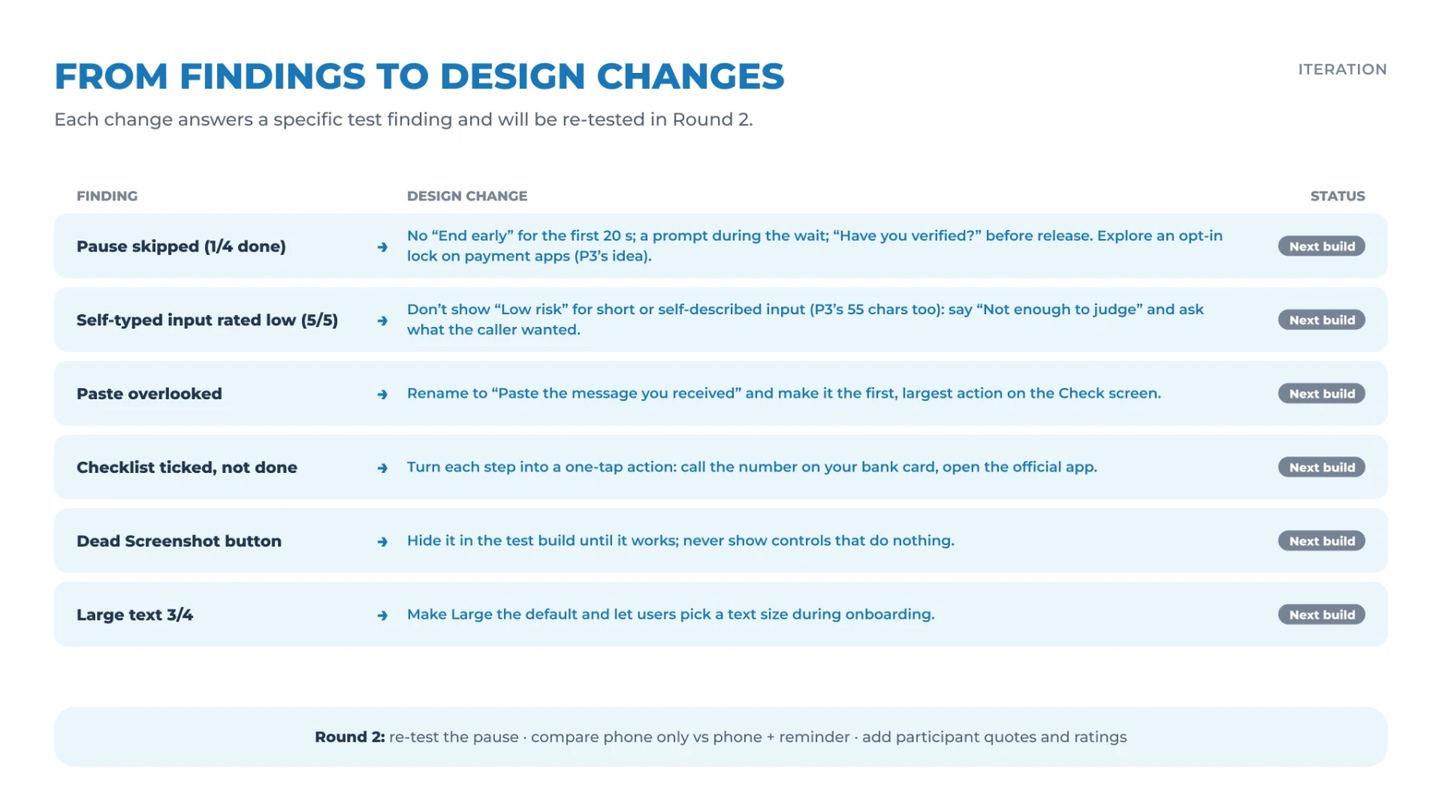
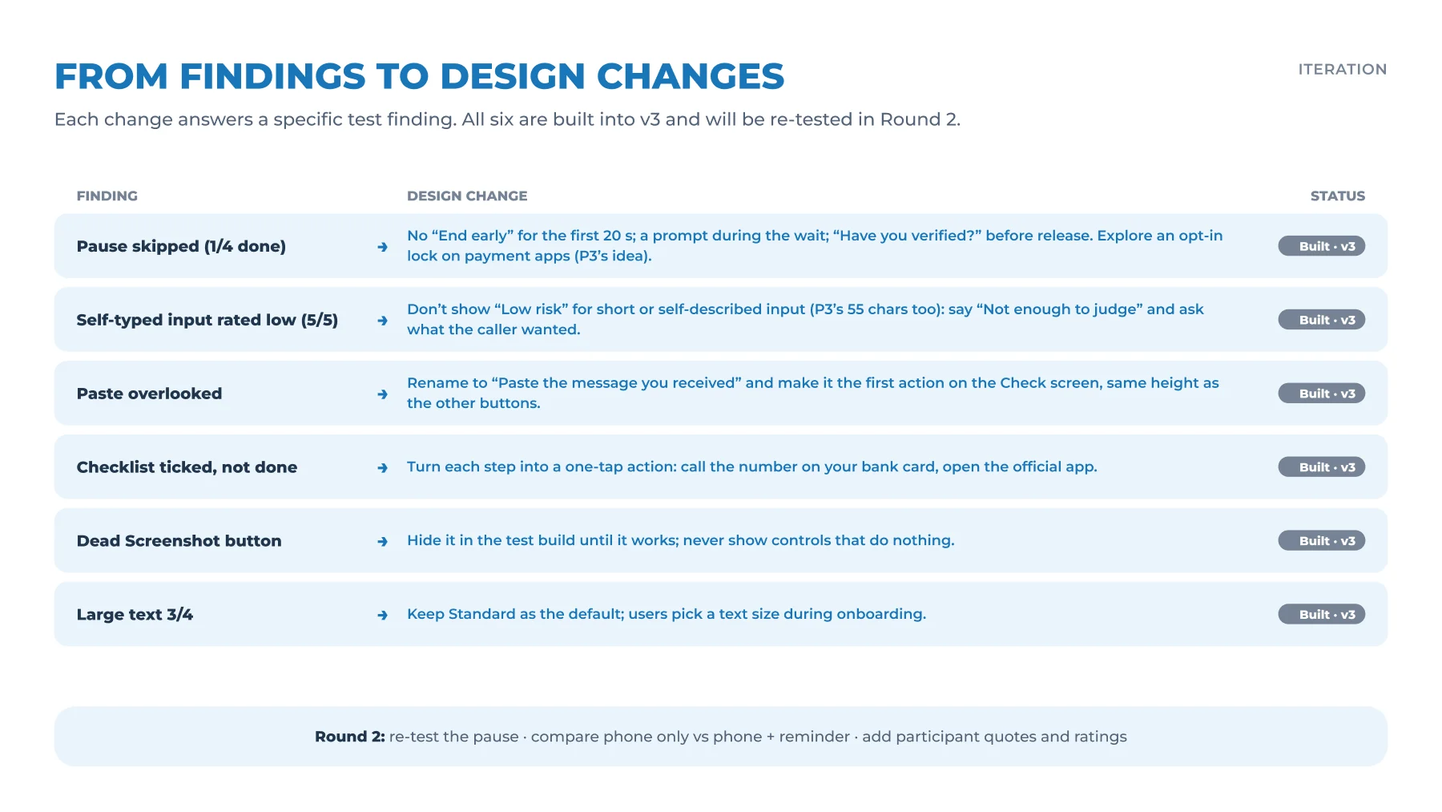
WiseHalo case study: findings→changes figure says Standard text stays the default; all six changes marked built in v3

diff --git a/works/wisehalo.html b/works/wisehalo.html
@@ -38,7 +38,7 @@ try{if(!sessionStorage.getItem('wz-loaded')&&!matchMedia('(prefers-reduced-motio
 <main class="project">
   <section class="meta"><div class="m-row"><span><span class="l-zh" lang="zh-Hans-CN">项目类型</span><span class="l-en" lang="en">Project type</span></span><span class="span2"><span class="l-zh" lang="zh-Hans-CN">AI + IOT 硕士毕业设计项目</span><span class="l-en" lang="en">AI + IoT MA thesis project</span></span></div><div class="m-row"><span><span class="l-zh" lang="zh-Hans-CN">项目名称</span><span class="l-en" lang="en">Project name</span></span><span class="span2"><span class="l-zh" lang="zh-Hans-CN">WiseHalo｜AI 防诈骗风险提示系统</span><span class="l-en" lang="en">WiseHalo — Making Hidden Scam Systems Visible</span></span></div><div class="m-row"><span><span class="l-zh" lang="zh-Hans-CN">分类</span><span class="l-en" lang="en">Category</span></span><span class="span2"><span class="tag">[<span class="l-zh" lang="zh-Hans-CN">AI</span><span class="l-en" lang="en">AI</span>]</span><span class="tag">[<span class="l-zh" lang="zh-Hans-CN">交互设计</span><span class="l-en" lang="en">Interaction design</span>]</span><span class="tag">[<span class="l-zh" lang="zh-Hans-CN">IOT</span><span class="l-en" lang="en">IoT</span>]</span><span class="tag">[<span class="l-zh" lang="zh-Hans-CN">适老化</span><span class="l-en" lang="en">Age-inclusive</span>]</span></span></div><div class="m-row"><span><span class="l-zh" lang="zh-Hans-CN">时间</span><span class="l-en" lang="en">Date</span></span><span class="span2">11.2026</span></div></section>
   <div class="p-grid">
-    <div class="p-main"><figure class="fig"><img src="../images/wisehalo/00-hero.webp?v=1794632484" width="1800" height="1012" alt=""></figure><div class="sec-head tldr"><span>00</span><span><span class="l-zh" lang="zh-Hans-CN">概要</span><span class="l-en" lang="en">Overview</span></span><span class="sec-text"><span class="l-zh" lang="zh-Hans-CN"><b>问题</b>：50–65 岁的人在诈骗里最缺的，不是更多警告，而是关键时刻有人解释“为什么可疑”，并帮他们停下来。<br><b>洞察</b>：用户想要提醒和解释；但真正止损的案例，都靠暂停和第三方核实。<br><b>方案</b>：AI 解释风险的 iOS App + 桌上提醒器——风险越高反馈越强，高风险时红灯一直亮，直到用户暂停或核实。<br><b>我的角色</b>：独立完成研究、交互与界面、iOS 原型和 ESP32 硬件。<br>20 个公开案例 · 32 份问卷 · 4 位长辈测试 · 3 级风险反馈 · <a class="u" href="#demo">直接试玩 ↓</a></span><span class="l-en" lang="en"><b>Problem</b>: people aged 50–65 don’t need more warnings – they need someone to explain why something is suspicious, and help them stop at the critical moment.<br><b>Insight</b>: users asked for alerts and explanations, yet every stopped case relied on a pause and a third party.<br><b>Design</b>: an iOS app where AI explains the risk, plus a desk reminder – stronger risk, stronger response; on high risk the red light stays on until the user pauses or verifies.<br><b>My role</b>: solo – research, interaction &amp; UI, iOS prototype and ESP32 hardware.<br>20 public cases · 32 surveys · 4 user tests · 3 risk levels · <a class="u" href="#demo">Try the demo ↓</a></span></span></div><div class="sec-head"><span>01</span><span><span class="l-zh" lang="zh-Hans-CN">问题：诈骗是一个系统</span><span class="l-en" lang="en">Problem: scams are systems</span></span><span class="sec-text"><span class="l-zh" lang="zh-Hans-CN">公开案例显示，诈骗从社交平台和日常任务开始接触用户，用虚假身份建立信任，再用紧迫感和小额回报推动用户做出高风险操作。大多数人只看到表面信息，看不到背后的运作方式，也就很难在中途停下来。</span><span class="l-en" lang="en">Public cases show scams reach people through everyday channels, build trust with fake identities, then use urgency and small rewards to push risky actions. Most people only see the surface message, not the system behind it — so it is hard to stop midway.</span></span></div><div class="figs figs-stack"><figure class="fig zoom"><img class="l-zh" src="../images/wisehalo/01-zh.webp?v=1794736027" width="1800" height="1013" alt="" loading="lazy" decoding="async"><img class="l-en" src="../images/wisehalo/01.webp?v=1794632484" width="1800" height="1012" alt="" loading="lazy" decoding="async"></figure></div><div class="sec-head"><span>02</span><span><span class="l-zh" lang="zh-Hans-CN">研究：20 个公开案例 + 32 份问卷</span><span class="l-en" lang="en">Research: 20 public cases + 32 surveys</span></span><span class="sec-text"><span class="l-zh" lang="zh-Hans-CN">我分析了 20 个中国 50–65 岁受害者的公开案例，并对 32 人做了线上问卷（其中 50 岁以上 15 人）。大多数人在可疑互动中会提前退出，但最需要的不是更多警告，而是“为什么可疑”的具体解释、可以马上执行的下一步，以及对保护工具本身的信任。</span><span class="l-en" lang="en">I analysed 20 public cases of victims aged 50–65 in China and ran an online survey with 32 people (15 aged 50+). Most respondents already exit suspicious interactions early — what they need is not more warnings, but a specific explanation of why something is suspicious, an actionable next step, and trust in the protective tool itself.</span></span></div><div class="figs figs-stack"><figure class="fig zoom"><img class="l-zh" src="../images/wisehalo/39-zh.webp?v=1794736027" width="1800" height="1013" alt="" loading="lazy" decoding="async"><img class="l-en" src="../images/wisehalo/39.webp?v=1794732906" width="1800" height="1013" alt="" loading="lazy" decoding="async"></figure><figure class="fig zoom"><img class="l-zh" src="../images/wisehalo/07-zh.webp?v=1794736027" width="1800" height="1013" alt="" loading="lazy" decoding="async"><img class="l-en" src="../images/wisehalo/07.webp?v=1794632485" width="1800" height="1012" alt="" loading="lazy" decoding="async"></figure><figure class="fig zoom"><img class="l-zh" src="../images/wisehalo/08-zh.webp?v=1794736027" width="1800" height="1013" alt="" loading="lazy" decoding="async"><img class="l-en" src="../images/wisehalo/08.webp?v=1794732387" width="1800" height="1013" alt="" loading="lazy" decoding="async"></figure></div><div class="sec-head"><span>03</span><span><span class="l-zh" lang="zh-Hans-CN">策略：风险越高，反馈越强</span><span class="l-en" lang="en">Strategy: stronger risk, stronger response</span></span><span class="sec-text"><span class="l-zh" lang="zh-Hans-CN">设备的反馈随风险逐级升级：低风险用黄色呼吸灯提示“核实来源”；中风险用橙色双脉冲并解释诈骗手法、建议联系信任的人；高风险用红色快闪和重复震动，配合手机全屏提示暂停付款。始终由用户自己决定下一步。</span><span class="l-en" lang="en">Feedback escalates with risk: low risk shows a yellow breathing light and suggests checking the source; medium risk adds an orange double pulse, explains the tactic and suggests contacting someone trusted; high risk uses a fast red flash and repeated vibration with a full-screen prompt to pause the payment. The user always makes the final call.</span></span></div><div class="figs figs-stack"><figure class="fig zoom"><img class="l-zh" src="../images/wisehalo/10-zh.webp?v=1794821514" width="1800" height="1013" alt="" loading="lazy" decoding="async"><img class="l-en" src="../images/wisehalo/10.webp?v=1794821514" width="1800" height="1013" alt="" loading="lazy" decoding="async"></figure></div><div class="sec-head"><span>04</span><span><span class="l-zh" lang="zh-Hans-CN">系统与信息架构</span><span class="l-en" lang="en">System &amp; information architecture</span></span><span class="sec-text"><span class="l-zh" lang="zh-Hans-CN">手机端负责接收可疑内容、调用 AI 分析并解释风险；设备端把风险等级转化为灯光与震动。信息架构围绕“检查 → 理解 → 选择安全行动”三步组织。</span><span class="l-en" lang="en">The phone receives suspicious content, calls the AI analysis and explains the risk; the device translates the risk level into light and vibration. The information architecture follows three steps: check → understand → choose a safe action.</span></span></div><div class="figs figs-stack"><figure class="fig zoom"><img class="l-zh" src="../images/wisehalo/15-zh.webp?v=1794784326" width="1800" height="1013" alt="" loading="lazy" decoding="async"><img class="l-en" src="../images/wisehalo/15.webp?v=1794784326" width="1800" height="1013" alt="" loading="lazy" decoding="async"></figure><figure class="fig zoom"><img class="l-zh" src="../images/wisehalo/16-zh.webp?v=1794784326" width="1800" height="1013" alt="" loading="lazy" decoding="async"><img class="l-en" src="../images/wisehalo/16.webp?v=1794784326" width="1800" height="1013" alt="" loading="lazy" decoding="async"></figure></div><div class="sec-head"><span>05</span><span><span class="l-zh" lang="zh-Hans-CN">界面：从中保真到高保真</span><span class="l-en" lang="en">Interface: from mid-fi to hi-fi</span></span><span class="sec-text"><span class="l-zh" lang="zh-Hans-CN">首页就是由 App 图标生成的“光环开关”：打开是提醒器守护中，关掉是只用手机提醒。鲜艳的颜色只留给光环和风险等级；结果页按“风险等级 → 一句话指令 → 一个主按钮 → 为什么可疑 → 求助”排列。下面依次是：中保真、设计规范、高保真精选与深色模式、引导页。</span><span class="l-en" lang="en">Home is a “halo switch” drawn from the app icon: on means the reminder is guarding, off means phone-only alerts. Bright colour is kept for the halo and risk levels; results follow risk level → one instruction → one primary action → why it’s suspicious → get help. Below: mid-fi, design system, selected hi-fi screens with dark mode, and onboarding.</span></span></div><div class="figs figs-stack"><figure class="fig zoom"><img class="l-zh" src="../images/wisehalo/18-zh.webp?v=1794736027" width="1800" height="1013" alt="" loading="lazy" decoding="async"><img class="l-en" src="../images/wisehalo/18.webp?v=1794634616" width="1800" height="1012" alt="" loading="lazy" decoding="async"></figure><figure class="fig zoom"><img class="l-zh" src="../images/wisehalo/20.webp?v=1794819768" width="1800" height="1013" alt="" loading="lazy" decoding="async"><img class="l-en" src="../images/wisehalo/21.webp?v=1794819768" width="1800" height="1013" alt="" loading="lazy" decoding="async"></figure><figure class="fig zoom"><img class="l-zh" src="../images/wisehalo/28.webp?v=1794819768" width="1800" height="1013" alt="" loading="lazy" decoding="async"><img class="l-en" src="../images/wisehalo/29.webp?v=1794819768" width="1800" height="1013" alt="" loading="lazy" decoding="async"></figure><figure class="fig zoom"><img class="l-zh" src="../images/wisehalo/44-zh.webp?v=1794822133" width="1800" height="3290" alt="" loading="lazy" decoding="async"><img class="l-en" src="../images/wisehalo/44.webp?v=1794822133" width="1800" height="3413" alt="" loading="lazy" decoding="async"></figure><figure class="fig zoom"><img class="l-zh" src="../images/wisehalo/42-zh.webp?v=1794819768" width="1800" height="1104" alt="" loading="lazy" decoding="async"><img class="l-en" src="../images/wisehalo/42.webp?v=1794819768" width="1800" height="1104" alt="" loading="lazy" decoding="async"></figure></div><div class="sec-head" id="demo"><span>06</span><span><span class="l-zh" lang="zh-Hans-CN">可交互原型：试一试</span><span class="l-en" lang="en">Interactive prototype: try it</span></span><span class="sec-text"><span class="l-zh" lang="zh-Hans-CN">先走 4 步引导页，再试：粘贴或选一条示例 → 开始检查 → 看风险结果、先暂停 1 分钟、发给家人；不想打字可以用“通话快速自查”。首页光环可在“只用手机”和“手机 + 提醒器”之间切换。原型用固定规则代替 AI。</span><span class="l-en" lang="en">Start with the 4-step onboarding, then paste or pick an example → Check → see the result, take a 1-minute pause or send it to family; or use the no-typing call self-check. The halo switches between phone-only and phone + reminder. Fixed rules stand in for the AI.</span></span></div><div class="figs figs-stack"><figure class="fig embed phone stage st-halo"><div class="stage-bg" aria-hidden="true"><svg class="stage-halo" viewBox="0 0 236 236" preserveAspectRatio="xMidYMid meet"><defs><linearGradient id="st-halo-g" x1="0" x2="1"><stop offset="0" stop-color="#1450FF"/><stop offset=".55" stop-color="#1A8BFF"/><stop offset="1" stop-color="#12DCF6"/></linearGradient><filter id="st-halo-blur" x="-30%" y="-30%" width="160%" height="160%"><feGaussianBlur stdDeviation="9"/></filter></defs><path class="glow" d="M56.3 191.5A96 96 0 1 1 179.7 191.5"/><path class="echo" d="M38.3 213.0A124 124 0 1 1 197.7 213.0"/><path class="echo e2" d="M21.6 232.9A150 150 0 1 1 214.4 232.9"/><path class="ring" d="M56.3 191.5A96 96 0 1 1 179.7 191.5"/><circle class="led low" cx="34.9" cy="70" r="2.6"/><circle class="led mid" cx="118" cy="22" r="2.6"/><circle class="led high" cx="201.1" cy="70" r="2.6"/></svg><div class="stage-label"><b><span class="l-zh" lang="zh-Hans-CN">可试玩 · 安心护</span><span class="l-en" lang="en">Live demo · WiseHalo</span></b><span><span class="l-zh" lang="zh-Hans-CN">演示模式 · 固定规则代替 AI</span><span class="l-en" lang="en">Demo mode · fixed rules instead of AI</span></span></div><div class="stage-co stage-co1"><span class="n">01</span><b><span class="l-zh" lang="zh-Hans-CN">粘贴 → 检查</span><span class="l-en" lang="en">Paste → Check</span></b><span class="d"><span class="l-zh" lang="zh-Hans-CN">选一条示例，看风险结果</span><span class="l-en" lang="en">Pick an example, see the risk</span></span><i></i></div><div class="stage-co stage-co2"><span class="n">02</span><b><span class="l-zh" lang="zh-Hans-CN">先停一下</span><span class="l-en" lang="en">Pause first</span></b><span class="d"><span class="l-zh" lang="zh-Hans-CN">高风险时暂停 1 分钟，再核实</span><span class="l-en" lang="en">High risk: a 1-minute pause, then verify</span></span><i></i></div><div class="stage-co stage-co3"><span class="n">03</span><b><span class="l-zh" lang="zh-Hans-CN">光环开关</span><span class="l-en" lang="en">Halo switch</span></b><span class="d"><span class="l-zh" lang="zh-Hans-CN">只用手机 ↔ 手机 + 提醒器</span><span class="l-en" lang="en">Phone only ↔ phone + reminder</span></span><i></i></div><div class="stage-co stage-co4"><span class="n">04</span><b><span class="l-zh" lang="zh-Hans-CN">通话快速自查</span><span class="l-en" lang="en">Call self-check</span></b><span class="d"><span class="l-zh" lang="zh-Hans-CN">不用打字，回答 5 个问题</span><span class="l-en" lang="en">No typing, five questions</span></span><i></i></div></div><iframe data-lang-src="../wisehalo-test-v3/?demo=1&amp;frame=1&amp;ob=5&amp;lang={lang}&amp;theme={theme}" title="WiseHalo interactive prototype" loading="lazy" allow="microphone; camera; autoplay; clipboard-write"></iframe><figcaption><a class="u" href="../wisehalo-test-v3/?demo=1&amp;ob=5" target="_blank" rel="noopener"><span class="l-zh" lang="zh-Hans-CN">在新窗口打开，或用手机打开 ↗</span><span class="l-en" lang="en">Open in a new tab or on your phone ↗</span></a></figcaption></figure></div><div class="sec-head"><span>07</span><span><span class="l-zh" lang="zh-Hans-CN">硬件原型：灯光与震动语言</span><span class="l-en" lang="en">Hardware: a language of light and vibration</span></span><span class="sec-text"><span class="l-zh" lang="zh-Hans-CN">用 ESP32-C3、RGB 灯环和震动马达搭建原型：先在 Wokwi 中仿真三种风险等级的反馈逻辑，再在面包板上逐项测试灯光和震动，最后让 App 的 AI 分析结果驱动设备反馈。</span><span class="l-en" lang="en">Built with an ESP32-C3, an RGB LED ring and a vibration motor: the feedback logic for three risk levels was first simulated in Wokwi, then tested on a breadboard, and finally driven by the app&#x27;s AI analysis result.</span></span></div><div class="figs figs-stack"><figure class="fig zoom"><img class="l-zh" src="../images/wisehalo/41-zh.webp?v=1794780180" width="1800" height="1013" alt="" loading="lazy" decoding="async"><img class="l-en" src="../images/wisehalo/41.webp?v=1794780180" width="1800" height="1013" alt="" loading="lazy" decoding="async"></figure><figure class="fig zoom"><img class="l-zh" src="../images/wisehalo/35-zh.webp?v=1794736027" width="1800" height="1013" alt="" loading="lazy" decoding="async"><img class="l-en" src="../images/wisehalo/35.webp?v=1794634622" width="1800" height="1012" alt="" loading="lazy" decoding="async"></figure><figure class="fig zoom"><img class="l-zh" src="../images/wisehalo/37-zh.webp?v=1794900000" width="1800" height="1013" alt="" loading="lazy" decoding="async"><img class="l-en" src="../images/wisehalo/37.webp?v=1794900000" width="1800" height="1013" alt="" loading="lazy" decoding="async"></figure></div><div class="sec-head"><span>08</span><span><span class="l-zh" lang="zh-Hans-CN">用户测试：第一轮</span><span class="l-en" lang="en">Usability test: round 1</span></span><span class="sec-text"><span class="l-zh" lang="zh-Hans-CN">在国内远程测试了 4 位 50–55 岁的目标用户（1 男 3 女）：7 个任务，209 次操作全部自动记录。所有人都独立完成了引导和「发短信给家人」；但只有 1 人做完了 1 分钟暂停，用自己的话描述诈骗时，5 次检查都被判成“低风险”。一位参与者问：“钱不是我花的，它却说低风险，是不是哪里不对？”每条发现都对应一项下一版的修改。「只有手机 vs 手机 + 提醒器」的对比放到第二轮测试。</span><span class="l-en" lang="en">Remote tests in China with four target users aged 50–55 (one man, three women): seven tasks, all 209 actions logged automatically. Everyone completed onboarding and texted family on their own, but only one finished the 1-minute pause, and all five checks typed in their own words came back “low risk”. One tester asked: “The money wasn’t spent by me, but it says low risk — is something wrong?” Every finding maps to a change in the next build. Comparing phone-only with phone + reminder is left for round two.</span></span></div><div class="figs figs-stack"><figure class="fig zoom"><img src="../images/wisehalo/45.webp?v=1794800000" width="1800" height="1013" alt="Round 1 method: 4 participants aged 50–55, 4–31 min sessions, 209 logged actions, 7 tasks" loading="lazy" decoding="async"></figure><figure class="fig zoom"><img src="../images/wisehalo/46.webp?v=1794800000" width="1800" height="1013" alt="Key findings: six usability issues ranked by severity" loading="lazy" decoding="async"></figure><figure class="fig zoom"><img src="../images/wisehalo/47.webp?v=1794800000" width="1800" height="1013" alt="Each finding mapped to a design change for the next build" loading="lazy" decoding="async"></figure><figure class="fig zoom"><img src="../images/wisehalo/48.webp?v=1794800000" width="1800" height="1013" alt="Hi-fi v3 before and after: check entry and own-words input" loading="lazy" decoding="async"></figure><figure class="fig zoom"><img src="../images/wisehalo/49.webp?v=1794800000" width="1800" height="1013" alt="Validation: success criteria checked against round 1 evidence" loading="lazy" decoding="async"></figure></div><div class="sec-head"><span>09</span><span><span class="l-zh" lang="zh-Hans-CN">现状与下一步</span><span class="l-en" lang="en">Status &amp; next steps</span></span><span class="sec-text"><span class="l-zh" lang="zh-Hans-CN">已实现：SwiftUI 高保真 App + ESP32 提醒器，AI 分析结果驱动灯光与震动；另有通话快速自查、读给我听、屏幕共享警告。<br><b>已知局限</b>：iOS 不能读取通话，只能事后自查；演示版用规则代替 AI；骗子可能在电话里指导用户关掉提醒。<br><b>下一步</b>：先完成第一轮测试得出的 6 项修改，再对 5 位 50–65 岁的用户做第二轮测试：重测新的暂停设计，对比“只有手机”和“手机 + 提醒器”。</span><span class="l-en" lang="en">Working today: a SwiftUI hi-fi app and an ESP32 reminder, with AI results driving light and vibration; plus call self-check, read-aloud and screen-sharing warnings.<br><b>Known limits</b>: iOS can’t read calls, so checks happen after the fact; the demo uses rules instead of AI; a scammer could coach the user to switch the reminder off.<br><b>Next</b>: ship the six fixes from round one, then run round two with five users aged 50–65 — re-testing the new pause and comparing phone-only with phone + reminder.</span></span></div><div class="figs figs-stack"><figure class="fig zoom"><img src="../images/wisehalo/50.webp?v=1794800000" width="1800" height="1013" alt="Reflection: key learnings, what I would do differently, next steps" loading="lazy" decoding="async"></figure></div></div>
+    <div class="p-main"><figure class="fig"><img src="../images/wisehalo/00-hero.webp?v=1794632484" width="1800" height="1012" alt=""></figure><div class="sec-head tldr"><span>00</span><span><span class="l-zh" lang="zh-Hans-CN">概要</span><span class="l-en" lang="en">Overview</span></span><span class="sec-text"><span class="l-zh" lang="zh-Hans-CN"><b>问题</b>：50–65 岁的人在诈骗里最缺的，不是更多警告，而是关键时刻有人解释“为什么可疑”，并帮他们停下来。<br><b>洞察</b>：用户想要提醒和解释；但真正止损的案例，都靠暂停和第三方核实。<br><b>方案</b>：AI 解释风险的 iOS App + 桌上提醒器——风险越高反馈越强，高风险时红灯一直亮，直到用户暂停或核实。<br><b>我的角色</b>：独立完成研究、交互与界面、iOS 原型和 ESP32 硬件。<br>20 个公开案例 · 32 份问卷 · 4 位长辈测试 · 3 级风险反馈 · <a class="u" href="#demo">直接试玩 ↓</a></span><span class="l-en" lang="en"><b>Problem</b>: people aged 50–65 don’t need more warnings – they need someone to explain why something is suspicious, and help them stop at the critical moment.<br><b>Insight</b>: users asked for alerts and explanations, yet every stopped case relied on a pause and a third party.<br><b>Design</b>: an iOS app where AI explains the risk, plus a desk reminder – stronger risk, stronger response; on high risk the red light stays on until the user pauses or verifies.<br><b>My role</b>: solo – research, interaction &amp; UI, iOS prototype and ESP32 hardware.<br>20 public cases · 32 surveys · 4 user tests · 3 risk levels · <a class="u" href="#demo">Try the demo ↓</a></span></span></div><div class="sec-head"><span>01</span><span><span class="l-zh" lang="zh-Hans-CN">问题：诈骗是一个系统</span><span class="l-en" lang="en">Problem: scams are systems</span></span><span class="sec-text"><span class="l-zh" lang="zh-Hans-CN">公开案例显示，诈骗从社交平台和日常任务开始接触用户，用虚假身份建立信任，再用紧迫感和小额回报推动用户做出高风险操作。大多数人只看到表面信息，看不到背后的运作方式，也就很难在中途停下来。</span><span class="l-en" lang="en">Public cases show scams reach people through everyday channels, build trust with fake identities, then use urgency and small rewards to push risky actions. Most people only see the surface message, not the system behind it — so it is hard to stop midway.</span></span></div><div class="figs figs-stack"><figure class="fig zoom"><img class="l-zh" src="../images/wisehalo/01-zh.webp?v=1794736027" width="1800" height="1013" alt="" loading="lazy" decoding="async"><img class="l-en" src="../images/wisehalo/01.webp?v=1794632484" width="1800" height="1012" alt="" loading="lazy" decoding="async"></figure></div><div class="sec-head"><span>02</span><span><span class="l-zh" lang="zh-Hans-CN">研究：20 个公开案例 + 32 份问卷</span><span class="l-en" lang="en">Research: 20 public cases + 32 surveys</span></span><span class="sec-text"><span class="l-zh" lang="zh-Hans-CN">我分析了 20 个中国 50–65 岁受害者的公开案例，并对 32 人做了线上问卷（其中 50 岁以上 15 人）。大多数人在可疑互动中会提前退出，但最需要的不是更多警告，而是“为什么可疑”的具体解释、可以马上执行的下一步，以及对保护工具本身的信任。</span><span class="l-en" lang="en">I analysed 20 public cases of victims aged 50–65 in China and ran an online survey with 32 people (15 aged 50+). Most respondents already exit suspicious interactions early — what they need is not more warnings, but a specific explanation of why something is suspicious, an actionable next step, and trust in the protective tool itself.</span></span></div><div class="figs figs-stack"><figure class="fig zoom"><img class="l-zh" src="../images/wisehalo/39-zh.webp?v=1794736027" width="1800" height="1013" alt="" loading="lazy" decoding="async"><img class="l-en" src="../images/wisehalo/39.webp?v=1794732906" width="1800" height="1013" alt="" loading="lazy" decoding="async"></figure><figure class="fig zoom"><img class="l-zh" src="../images/wisehalo/07-zh.webp?v=1794736027" width="1800" height="1013" alt="" loading="lazy" decoding="async"><img class="l-en" src="../images/wisehalo/07.webp?v=1794632485" width="1800" height="1012" alt="" loading="lazy" decoding="async"></figure><figure class="fig zoom"><img class="l-zh" src="../images/wisehalo/08-zh.webp?v=1794736027" width="1800" height="1013" alt="" loading="lazy" decoding="async"><img class="l-en" src="../images/wisehalo/08.webp?v=1794732387" width="1800" height="1013" alt="" loading="lazy" decoding="async"></figure></div><div class="sec-head"><span>03</span><span><span class="l-zh" lang="zh-Hans-CN">策略：风险越高，反馈越强</span><span class="l-en" lang="en">Strategy: stronger risk, stronger response</span></span><span class="sec-text"><span class="l-zh" lang="zh-Hans-CN">设备的反馈随风险逐级升级：低风险用黄色呼吸灯提示“核实来源”；中风险用橙色双脉冲并解释诈骗手法、建议联系信任的人；高风险用红色快闪和重复震动，配合手机全屏提示暂停付款。始终由用户自己决定下一步。</span><span class="l-en" lang="en">Feedback escalates with risk: low risk shows a yellow breathing light and suggests checking the source; medium risk adds an orange double pulse, explains the tactic and suggests contacting someone trusted; high risk uses a fast red flash and repeated vibration with a full-screen prompt to pause the payment. The user always makes the final call.</span></span></div><div class="figs figs-stack"><figure class="fig zoom"><img class="l-zh" src="../images/wisehalo/10-zh.webp?v=1794821514" width="1800" height="1013" alt="" loading="lazy" decoding="async"><img class="l-en" src="../images/wisehalo/10.webp?v=1794821514" width="1800" height="1013" alt="" loading="lazy" decoding="async"></figure></div><div class="sec-head"><span>04</span><span><span class="l-zh" lang="zh-Hans-CN">系统与信息架构</span><span class="l-en" lang="en">System &amp; information architecture</span></span><span class="sec-text"><span class="l-zh" lang="zh-Hans-CN">手机端负责接收可疑内容、调用 AI 分析并解释风险；设备端把风险等级转化为灯光与震动。信息架构围绕“检查 → 理解 → 选择安全行动”三步组织。</span><span class="l-en" lang="en">The phone receives suspicious content, calls the AI analysis and explains the risk; the device translates the risk level into light and vibration. The information architecture follows three steps: check → understand → choose a safe action.</span></span></div><div class="figs figs-stack"><figure class="fig zoom"><img class="l-zh" src="../images/wisehalo/15-zh.webp?v=1794784326" width="1800" height="1013" alt="" loading="lazy" decoding="async"><img class="l-en" src="../images/wisehalo/15.webp?v=1794784326" width="1800" height="1013" alt="" loading="lazy" decoding="async"></figure><figure class="fig zoom"><img class="l-zh" src="../images/wisehalo/16-zh.webp?v=1794784326" width="1800" height="1013" alt="" loading="lazy" decoding="async"><img class="l-en" src="../images/wisehalo/16.webp?v=1794784326" width="1800" height="1013" alt="" loading="lazy" decoding="async"></figure></div><div class="sec-head"><span>05</span><span><span class="l-zh" lang="zh-Hans-CN">界面：从中保真到高保真</span><span class="l-en" lang="en">Interface: from mid-fi to hi-fi</span></span><span class="sec-text"><span class="l-zh" lang="zh-Hans-CN">首页就是由 App 图标生成的“光环开关”：打开是提醒器守护中，关掉是只用手机提醒。鲜艳的颜色只留给光环和风险等级；结果页按“风险等级 → 一句话指令 → 一个主按钮 → 为什么可疑 → 求助”排列。下面依次是：中保真、设计规范、高保真精选与深色模式、引导页。</span><span class="l-en" lang="en">Home is a “halo switch” drawn from the app icon: on means the reminder is guarding, off means phone-only alerts. Bright colour is kept for the halo and risk levels; results follow risk level → one instruction → one primary action → why it’s suspicious → get help. Below: mid-fi, design system, selected hi-fi screens with dark mode, and onboarding.</span></span></div><div class="figs figs-stack"><figure class="fig zoom"><img class="l-zh" src="../images/wisehalo/18-zh.webp?v=1794736027" width="1800" height="1013" alt="" loading="lazy" decoding="async"><img class="l-en" src="../images/wisehalo/18.webp?v=1794634616" width="1800" height="1012" alt="" loading="lazy" decoding="async"></figure><figure class="fig zoom"><img class="l-zh" src="../images/wisehalo/20.webp?v=1794819768" width="1800" height="1013" alt="" loading="lazy" decoding="async"><img class="l-en" src="../images/wisehalo/21.webp?v=1794819768" width="1800" height="1013" alt="" loading="lazy" decoding="async"></figure><figure class="fig zoom"><img class="l-zh" src="../images/wisehalo/28.webp?v=1794819768" width="1800" height="1013" alt="" loading="lazy" decoding="async"><img class="l-en" src="../images/wisehalo/29.webp?v=1794819768" width="1800" height="1013" alt="" loading="lazy" decoding="async"></figure><figure class="fig zoom"><img class="l-zh" src="../images/wisehalo/44-zh.webp?v=1794822133" width="1800" height="3290" alt="" loading="lazy" decoding="async"><img class="l-en" src="../images/wisehalo/44.webp?v=1794822133" width="1800" height="3413" alt="" loading="lazy" decoding="async"></figure><figure class="fig zoom"><img class="l-zh" src="../images/wisehalo/42-zh.webp?v=1794819768" width="1800" height="1104" alt="" loading="lazy" decoding="async"><img class="l-en" src="../images/wisehalo/42.webp?v=1794819768" width="1800" height="1104" alt="" loading="lazy" decoding="async"></figure></div><div class="sec-head" id="demo"><span>06</span><span><span class="l-zh" lang="zh-Hans-CN">可交互原型：试一试</span><span class="l-en" lang="en">Interactive prototype: try it</span></span><span class="sec-text"><span class="l-zh" lang="zh-Hans-CN">先走 4 步引导页，再试：粘贴或选一条示例 → 开始检查 → 看风险结果、先暂停 1 分钟、发给家人；不想打字可以用“通话快速自查”。首页光环可在“只用手机”和“手机 + 提醒器”之间切换。原型用固定规则代替 AI。</span><span class="l-en" lang="en">Start with the 4-step onboarding, then paste or pick an example → Check → see the result, take a 1-minute pause or send it to family; or use the no-typing call self-check. The halo switches between phone-only and phone + reminder. Fixed rules stand in for the AI.</span></span></div><div class="figs figs-stack"><figure class="fig embed phone stage st-halo"><div class="stage-bg" aria-hidden="true"><svg class="stage-halo" viewBox="0 0 236 236" preserveAspectRatio="xMidYMid meet"><defs><linearGradient id="st-halo-g" x1="0" x2="1"><stop offset="0" stop-color="#1450FF"/><stop offset=".55" stop-color="#1A8BFF"/><stop offset="1" stop-color="#12DCF6"/></linearGradient><filter id="st-halo-blur" x="-30%" y="-30%" width="160%" height="160%"><feGaussianBlur stdDeviation="9"/></filter></defs><path class="glow" d="M56.3 191.5A96 96 0 1 1 179.7 191.5"/><path class="echo" d="M38.3 213.0A124 124 0 1 1 197.7 213.0"/><path class="echo e2" d="M21.6 232.9A150 150 0 1 1 214.4 232.9"/><path class="ring" d="M56.3 191.5A96 96 0 1 1 179.7 191.5"/><circle class="led low" cx="34.9" cy="70" r="2.6"/><circle class="led mid" cx="118" cy="22" r="2.6"/><circle class="led high" cx="201.1" cy="70" r="2.6"/></svg><div class="stage-label"><b><span class="l-zh" lang="zh-Hans-CN">可试玩 · 安心护</span><span class="l-en" lang="en">Live demo · WiseHalo</span></b><span><span class="l-zh" lang="zh-Hans-CN">演示模式 · 固定规则代替 AI</span><span class="l-en" lang="en">Demo mode · fixed rules instead of AI</span></span></div><div class="stage-co stage-co1"><span class="n">01</span><b><span class="l-zh" lang="zh-Hans-CN">粘贴 → 检查</span><span class="l-en" lang="en">Paste → Check</span></b><span class="d"><span class="l-zh" lang="zh-Hans-CN">选一条示例，看风险结果</span><span class="l-en" lang="en">Pick an example, see the risk</span></span><i></i></div><div class="stage-co stage-co2"><span class="n">02</span><b><span class="l-zh" lang="zh-Hans-CN">先停一下</span><span class="l-en" lang="en">Pause first</span></b><span class="d"><span class="l-zh" lang="zh-Hans-CN">高风险时暂停 1 分钟，再核实</span><span class="l-en" lang="en">High risk: a 1-minute pause, then verify</span></span><i></i></div><div class="stage-co stage-co3"><span class="n">03</span><b><span class="l-zh" lang="zh-Hans-CN">光环开关</span><span class="l-en" lang="en">Halo switch</span></b><span class="d"><span class="l-zh" lang="zh-Hans-CN">只用手机 ↔ 手机 + 提醒器</span><span class="l-en" lang="en">Phone only ↔ phone + reminder</span></span><i></i></div><div class="stage-co stage-co4"><span class="n">04</span><b><span class="l-zh" lang="zh-Hans-CN">通话快速自查</span><span class="l-en" lang="en">Call self-check</span></b><span class="d"><span class="l-zh" lang="zh-Hans-CN">不用打字，回答 5 个问题</span><span class="l-en" lang="en">No typing, five questions</span></span><i></i></div></div><iframe data-lang-src="../wisehalo-test-v3/?demo=1&amp;frame=1&amp;ob=5&amp;lang={lang}&amp;theme={theme}" title="WiseHalo interactive prototype" loading="lazy" allow="microphone; camera; autoplay; clipboard-write"></iframe><figcaption><a class="u" href="../wisehalo-test-v3/?demo=1&amp;ob=5" target="_blank" rel="noopener"><span class="l-zh" lang="zh-Hans-CN">在新窗口打开，或用手机打开 ↗</span><span class="l-en" lang="en">Open in a new tab or on your phone ↗</span></a></figcaption></figure></div><div class="sec-head"><span>07</span><span><span class="l-zh" lang="zh-Hans-CN">硬件原型：灯光与震动语言</span><span class="l-en" lang="en">Hardware: a language of light and vibration</span></span><span class="sec-text"><span class="l-zh" lang="zh-Hans-CN">用 ESP32-C3、RGB 灯环和震动马达搭建原型：先在 Wokwi 中仿真三种风险等级的反馈逻辑，再在面包板上逐项测试灯光和震动，最后让 App 的 AI 分析结果驱动设备反馈。</span><span class="l-en" lang="en">Built with an ESP32-C3, an RGB LED ring and a vibration motor: the feedback logic for three risk levels was first simulated in Wokwi, then tested on a breadboard, and finally driven by the app&#x27;s AI analysis result.</span></span></div><div class="figs figs-stack"><figure class="fig zoom"><img class="l-zh" src="../images/wisehalo/41-zh.webp?v=1794780180" width="1800" height="1013" alt="" loading="lazy" decoding="async"><img class="l-en" src="../images/wisehalo/41.webp?v=1794780180" width="1800" height="1013" alt="" loading="lazy" decoding="async"></figure><figure class="fig zoom"><img class="l-zh" src="../images/wisehalo/35-zh.webp?v=1794736027" width="1800" height="1013" alt="" loading="lazy" decoding="async"><img class="l-en" src="../images/wisehalo/35.webp?v=1794634622" width="1800" height="1012" alt="" loading="lazy" decoding="async"></figure><figure class="fig zoom"><img class="l-zh" src="../images/wisehalo/37-zh.webp?v=1794900000" width="1800" height="1013" alt="" loading="lazy" decoding="async"><img class="l-en" src="../images/wisehalo/37.webp?v=1794900000" width="1800" height="1013" alt="" loading="lazy" decoding="async"></figure></div><div class="sec-head"><span>08</span><span><span class="l-zh" lang="zh-Hans-CN">用户测试：第一轮</span><span class="l-en" lang="en">Usability test: round 1</span></span><span class="sec-text"><span class="l-zh" lang="zh-Hans-CN">在国内远程测试了 4 位 50–55 岁的目标用户（1 男 3 女）：7 个任务，209 次操作全部自动记录。所有人都独立完成了引导和「发短信给家人」；但只有 1 人做完了 1 分钟暂停，用自己的话描述诈骗时，5 次检查都被判成“低风险”。一位参与者问：“钱不是我花的，它却说低风险，是不是哪里不对？”每条发现都对应一项下一版的修改。「只有手机 vs 手机 + 提醒器」的对比放到第二轮测试。</span><span class="l-en" lang="en">Remote tests in China with four target users aged 50–55 (one man, three women): seven tasks, all 209 actions logged automatically. Everyone completed onboarding and texted family on their own, but only one finished the 1-minute pause, and all five checks typed in their own words came back “low risk”. One tester asked: “The money wasn’t spent by me, but it says low risk — is something wrong?” Every finding maps to a change in the next build. Comparing phone-only with phone + reminder is left for round two.</span></span></div><div class="figs figs-stack"><figure class="fig zoom"><img src="../images/wisehalo/45.webp?v=1794800000" width="1800" height="1013" alt="Round 1 method: 4 participants aged 50–55, 4–31 min sessions, 209 logged actions, 7 tasks" loading="lazy" decoding="async"></figure><figure class="fig zoom"><img src="../images/wisehalo/46.webp?v=1794800000" width="1800" height="1013" alt="Key findings: six usability issues ranked by severity" loading="lazy" decoding="async"></figure><figure class="fig zoom"><img src="../images/wisehalo/47.webp?v=1794900000" width="1800" height="1013" alt="Each finding mapped to a design change for the next build" loading="lazy" decoding="async"></figure><figure class="fig zoom"><img src="../images/wisehalo/48.webp?v=1794800000" width="1800" height="1013" alt="Hi-fi v3 before and after: check entry and own-words input" loading="lazy" decoding="async"></figure><figure class="fig zoom"><img src="../images/wisehalo/49.webp?v=1794800000" width="1800" height="1013" alt="Validation: success criteria checked against round 1 evidence" loading="lazy" decoding="async"></figure></div><div class="sec-head"><span>09</span><span><span class="l-zh" lang="zh-Hans-CN">现状与下一步</span><span class="l-en" lang="en">Status &amp; next steps</span></span><span class="sec-text"><span class="l-zh" lang="zh-Hans-CN">已实现：SwiftUI 高保真 App + ESP32 提醒器，AI 分析结果驱动灯光与震动；另有通话快速自查、读给我听、屏幕共享警告。<br><b>已知局限</b>：iOS 不能读取通话，只能事后自查；演示版用规则代替 AI；骗子可能在电话里指导用户关掉提醒。<br><b>下一步</b>：先完成第一轮测试得出的 6 项修改，再对 5 位 50–65 岁的用户做第二轮测试：重测新的暂停设计，对比“只有手机”和“手机 + 提醒器”。</span><span class="l-en" lang="en">Working today: a SwiftUI hi-fi app and an ESP32 reminder, with AI results driving light and vibration; plus call self-check, read-aloud and screen-sharing warnings.<br><b>Known limits</b>: iOS can’t read calls, so checks happen after the fact; the demo uses rules instead of AI; a scammer could coach the user to switch the reminder off.<br><b>Next</b>: ship the six fixes from round one, then run round two with five users aged 50–65 — re-testing the new pause and comparing phone-only with phone + reminder.</span></span></div><div class="figs figs-stack"><figure class="fig zoom"><img src="../images/wisehalo/50.webp?v=1794800000" width="1800" height="1013" alt="Reflection: key learnings, what I would do differently, next steps" loading="lazy" decoding="async"></figure></div></div>
     <aside class="p-side"><div class="sticky"><p><span class="l-zh" lang="zh-Hans-CN">WISEHALO 是我的硕士毕业设计，一个结合 AI 风险分析与实体提醒设备的防诈骗体验项目。项目把可疑信息交给 AI 解释“为什么可疑”，并通过灯光与震动在关键时刻提醒用户先停下来，探索如何让隐藏在日常沟通中的诈骗系统变得可见、可理解、可应对。</span><span class="l-en" lang="en">WISEHALO is my MA thesis: an anti-scam experience combining AI risk analysis with a physical alert device. It asks AI to explain why a message is suspicious and uses light and vibration to prompt a pause at the critical moment — making the scam systems hidden in everyday communication visible, understandable and actionable.</span></p><nav class="toc" data-toc aria-label="Sections"></nav></div></aside>
   </div>
   <section class="meta p-foot"><div class="m-row"><span><span class="l-zh" lang="zh-Hans-CN">CREDITS</span><span class="l-en" lang="en">CREDITS</span></span><span class="span2"><span class="l-zh" lang="zh-Hans-CN">用户研究｜AI 功能设计｜交互设计｜界面设计｜硬件原型</span><span class="l-en" lang="en">User research | AI feature design | Interaction design | UI | Hardware prototyping</span></span></div><div class="m-row"><span><span class="l-zh" lang="zh-Hans-CN">项目性质</span><span class="l-en" lang="en">Format</span></span><span class="span2"><span class="l-zh" lang="zh-Hans-CN">硕士毕业设计 · 个人项目</span><span class="l-en" lang="en">MA thesis · Solo project</span></span></div><div class="m-row"><span><span class="l-zh" lang="zh-Hans-CN">团队</span><span class="l-en" lang="en">Team</span></span><span class="span2"><span class="l-zh" lang="zh-Hans-CN">个人项目</span><span class="l-en" lang="en">Solo</span></span></div><div class="m-row"><span><span class="l-zh" lang="zh-Hans-CN">课程</span><span class="l-en" lang="en">Course</span></span><span class="span2">ITGM 748 · SCAD</span></div><div class="m-row"><span><span class="l-zh" lang="zh-Hans-CN">周期</span><span class="l-en" lang="en">Timeline</span></span><span class="span2">2026.09 – 2026.11</span></div><div class="m-row"><span><span class="l-zh" lang="zh-Hans-CN">工具</span><span class="l-en" lang="en">Tools</span></span><span class="span2">Figma · ESP32-C3 · Wokwi · LLM API · Rhino</span></div><div class="m-row"><span><span class="l-zh" lang="zh-Hans-CN">状态</span><span class="l-en" lang="en">Status</span></span><span class="span2"><span class="l-zh" lang="zh-Hans-CN">进行中</span><span class="l-en" lang="en">In progress</span></span></div><div class="m-row pager"><span></span><span class="span2"><a href="ai-companion-toy.html">NEXT ›</a></span></div></section>
